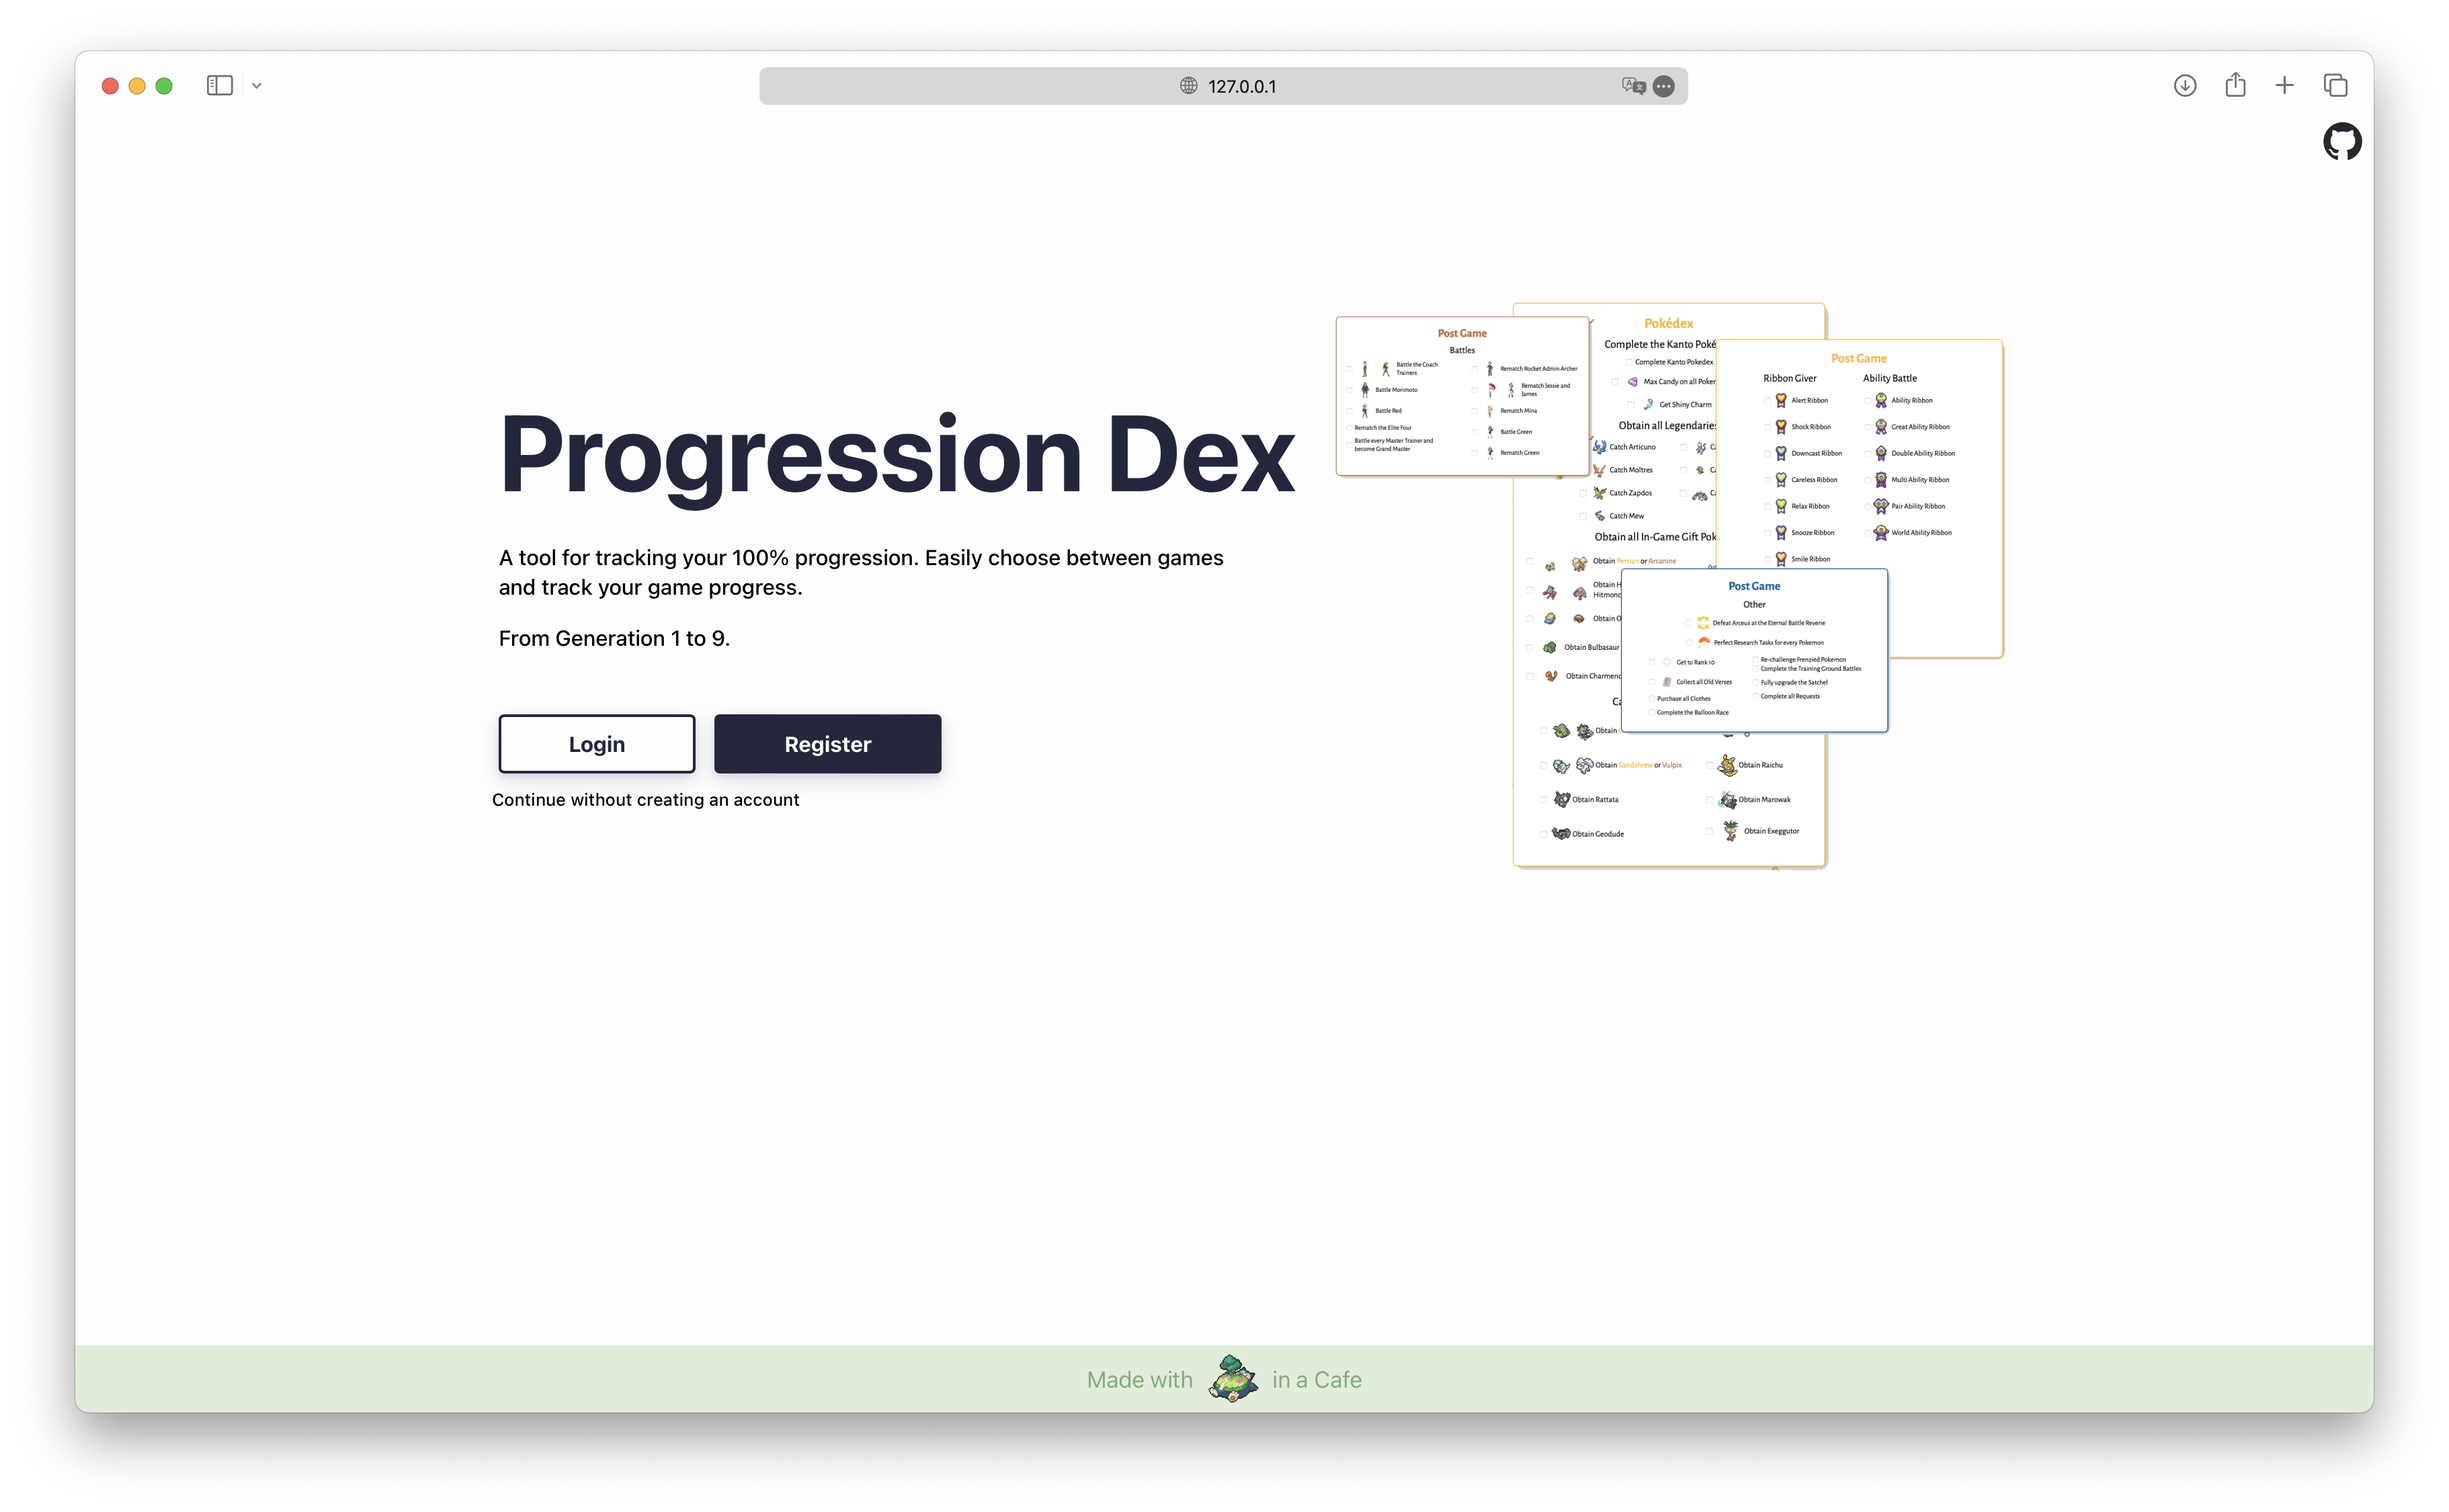
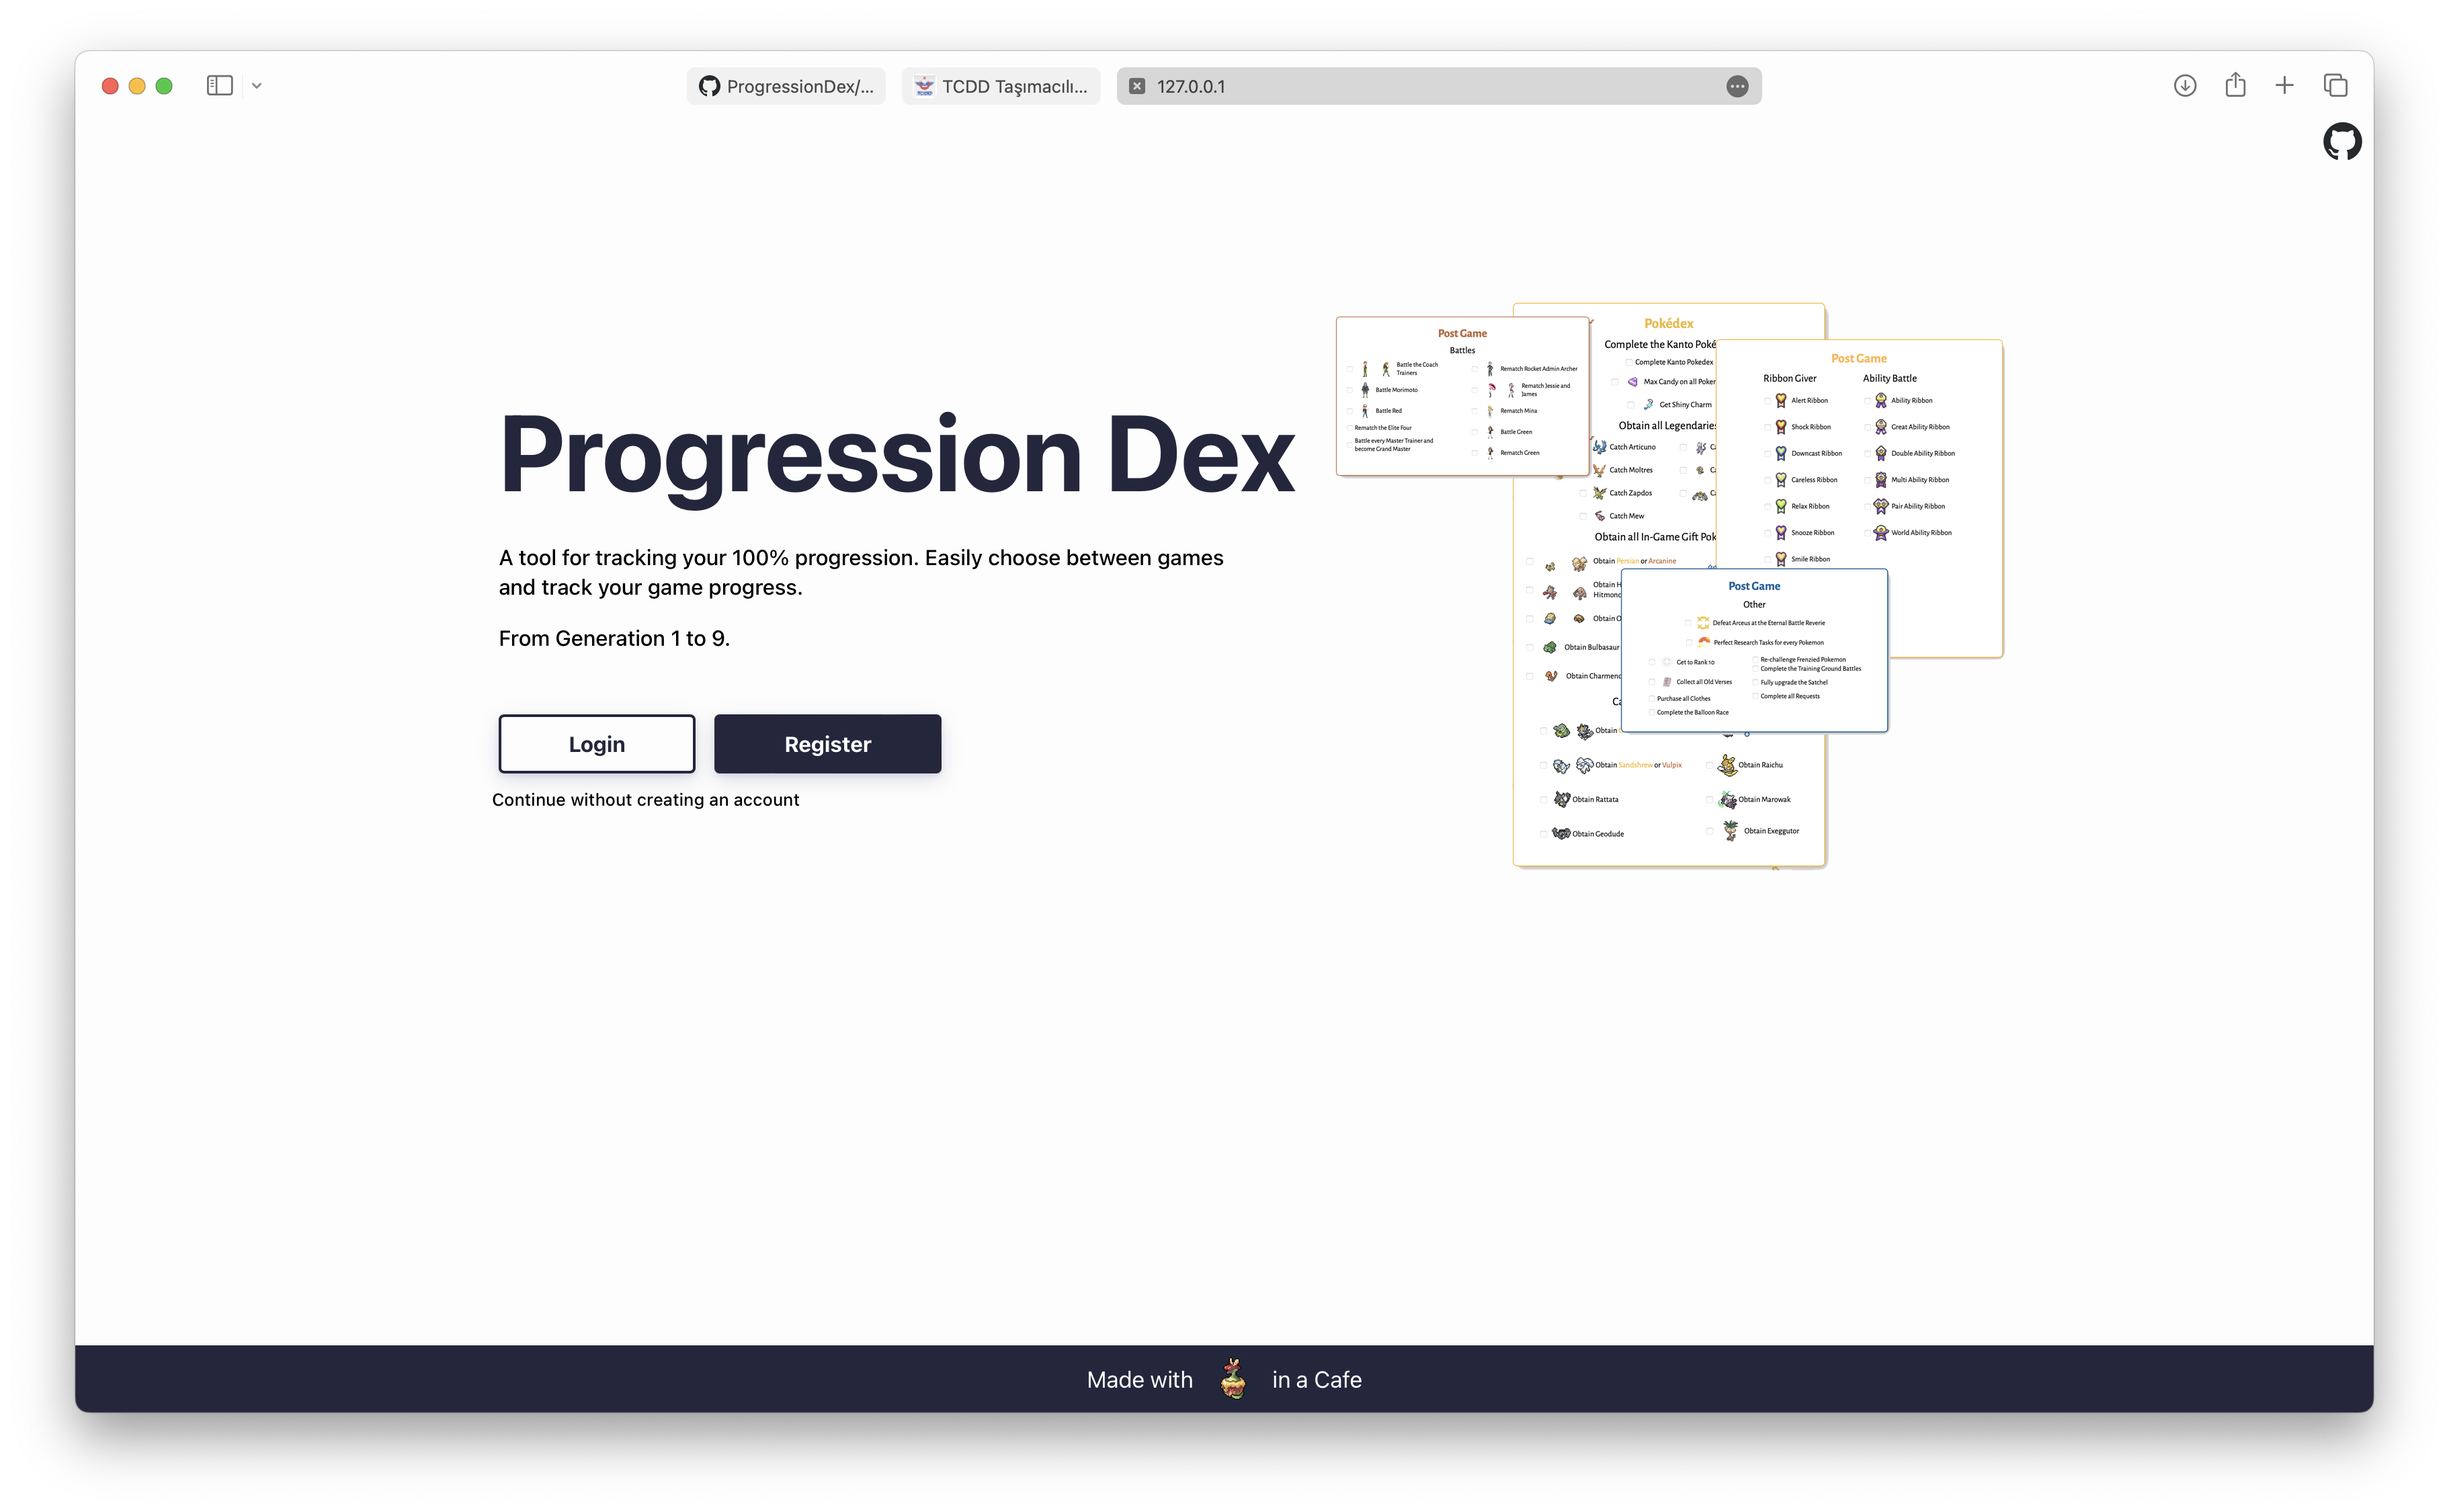
Update

Changed region(s): [[0.031, 0.8711, 0.9923, 0.9333], [0.2791, 0.0311, 0.4962, 0.0933], [0.6512, 0.0311, 0.7442, 0.0933]]

diff --git a/styles.css b/styles.css
@@ -110,7 +110,7 @@ button {
 }
 footer {
 	height: 50px;
-	background: #DEECD8;
+	background: #23273E;
 	position: fixed;
 	bottom: 0;
 	left: 0;
@@ -118,7 +118,7 @@ footer {
 	display: flex;
 	justify-content: center;
 	align-items: center;
-	color: #79AD75;
+	color: #fff;
 	font-size: 1vw;
 }
 footer ul {
